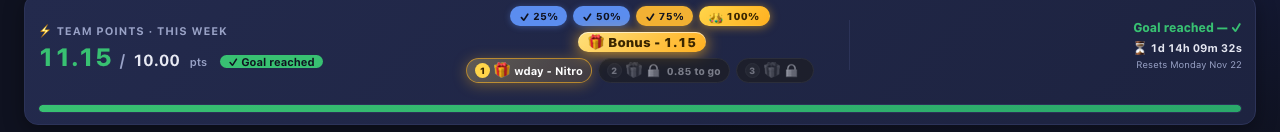
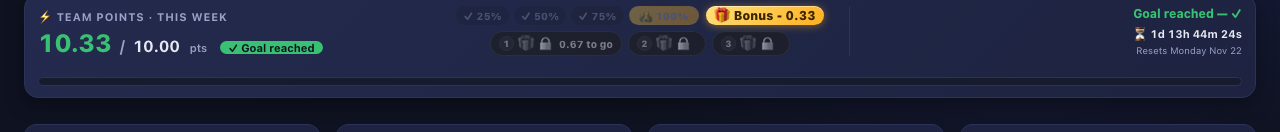
v1.33 — bonus badge row no longer wraps (one-line fix)
Forced flex-wrap: nowrap on .points-miles-row (25/50/75/100% + Bonus badge) so
it never wraps to a second line at narrow viewports, and tightened badge sizing
(.mile padding 8->6px/height 20->19px, .points-miles-row gap 6->5px,
.points-bonus-badge padding 10->8px/font 13->12px/margin-left 4->2px, plus
flex:0 0 auto on the row children) so the row fits without overflowing.
Re-screenshotted both states single-line in docs/screenshots/.
css/style.css only; no data change; fresh-load guard still PASSes.

diff --git a/css/style.css b/css/style.css
@@ -89,9 +89,11 @@ a:hover { text-decoration: underline; }
   display: flex;
   align-items: center;
   justify-content: center;
-  flex-wrap: wrap;
-  gap: 6px;
+  flex-wrap: nowrap;              /* never wrap: keeps the badge row on one line */
+  gap: 5px;
 }
+.points-miles-row .mile,
+.points-miles-row .points-bonus-badge { flex: 0 0 auto; }
 .points-label {
   font-size: 11px;
   font-weight: 700;
@@ -135,8 +137,8 @@ a:hover { text-decoration: underline; }
 /* ---- Milestone badges (25/50/75/100%) inside .points-middle ---- */
 .mile {
   display: inline-flex; align-items: center; gap: 3px;
-  height: 20px; padding: 0 8px; border-radius: 999px;
-  font-size: 10px; font-weight: 800; letter-spacing: .02em;
+  height: 19px; padding: 0 6px; border-radius: 999px;
+  font-size: 10px; font-weight: 800; letter-spacing: .01em;
   color: var(--muted);
   background: var(--bg-soft);
   border: 1px solid var(--line);
@@ -172,8 +174,8 @@ a:hover { text-decoration: underline; }
    cleared. Deliberately loud/gold so it reads as the team's reward number. */
 .points-bonus-badge {
   display: inline-flex; align-items: center; gap: 4px;
-  margin-left: 4px; padding: 2px 10px; border-radius: 999px;
-  font-size: 13px; font-weight: 900; letter-spacing: .01em;
+  margin-left: 2px; padding: 2px 8px; border-radius: 999px;
+  font-size: 12px; font-weight: 900; letter-spacing: .01em;
   color: #3a2600;
   background: linear-gradient(135deg, #ffe07a, #ffb020);
   box-shadow: 0 1px 10px rgba(255,180,32,.55), inset 0 1px 0 rgba(255,255,255,.45);

diff --git a/REVISIONS.md b/REVISIONS.md
@@ -3,6 +3,22 @@
 Changelog for the QuickTasks Kanban board. Keep this in sync with `VERSION` and the
 GitHub README "Revisions" section.
 
+## v1.33 — 2026-11-21 (RELEASED on GitHub, tag v1.33)
+One-line bug fix to the v1.32 bonus feature.
+
+### Fix — bonus badge row no longer wraps
+- At narrow user-agent widths the `.points-miles-row` (25% / 50% / 75% / 100% +
+  the "Bonus - .NN" badge) wrapped onto a second line, which changed the banner's
+  height/width. **Forced `flex-wrap: nowrap`** on `.points-miles-row` so the
+  badges + bonus badge always stay on one line.
+- Tightened the badge sizing so the row fits without overflowing at narrow widths:
+  `.mile` padding `8px → 6px` (height `20px → 19px`), `.points-miles-row` gap
+  `6px → 5px`, `.points-bonus-badge` padding `10px → 8px` / font `13px → 12px` /
+  margin-left `4px → 2px`, plus `.points-miles-row .mile, .points-bonus-badge {
+  flex: 0 0 auto; }` so nothing shrinks or wraps.
+- Re-screenshotted both states (single-line) in `docs/screenshots/`.
+- `css/style.css` only — no data change; fresh-load guard still PASSes.
+
 ## v1.32 — 2026-11-21 (RELEASED on GitHub, tag v1.32)
 New feature: **post-goal bonus prizes** on the Team Points banner. Code-only;
 the prod boards data is untouched (prod-only, not carried in the repo).

diff --git a/README.md b/README.md
@@ -337,6 +337,15 @@ here so it's not lost:
 ---
 
 ## Revisions
+## Revisions
+
+### v1.33 — 2026-11-21 (RELEASED on GitHub, tag v1.33)
+- **Bug fix — bonus badge row no longer wraps.** At narrow user-agent widths the
+  milestone + "Bonus - .NN" badge row wrapped to a second line, changing the
+  banner's width. Forced `flex-wrap: nowrap` on `.points-miles-row` (plus tighter
+  badge sizing) so the badges + bonus badge always stay on one line. `css/style.css`
+  only; no data change; fresh-load guard still PASSes.
+
 
 ### v1.32 — 2026-11-21 (RELEASED on GitHub, tag v1.32)
 - **Post-goal bonus prizes on the Team Points banner.** After the team clears the
